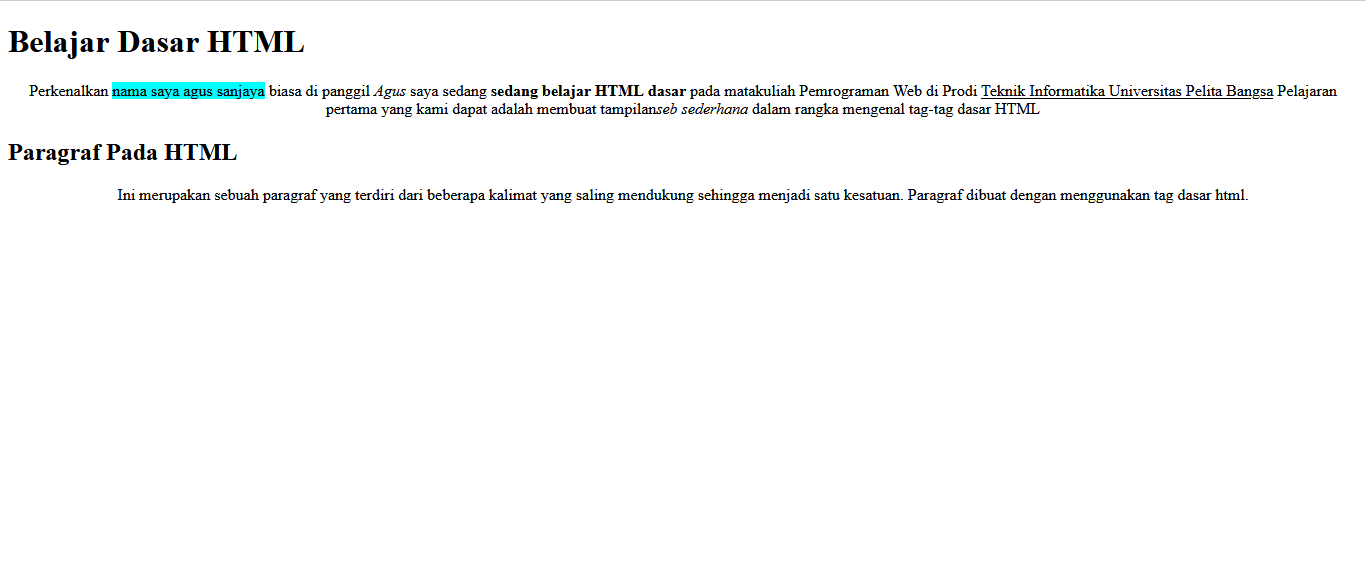
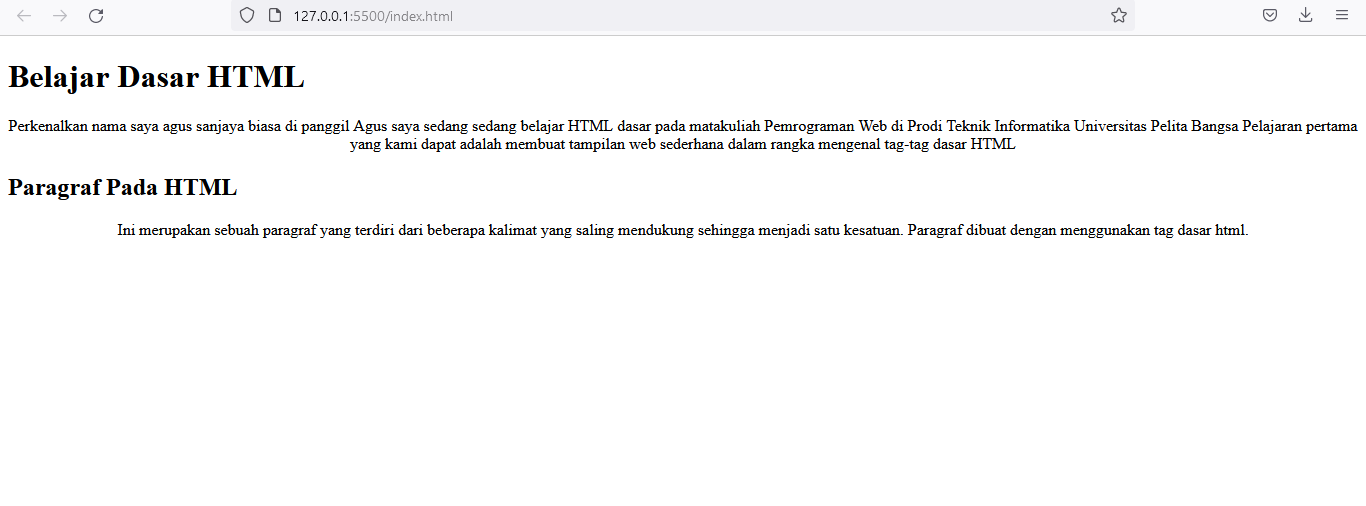
mengubah gambar

diff --git a/index.html b/index.html
@@ -10,18 +10,16 @@
   
 <!-- paragraf pertama -->
 <h1>Belajar Dasar HTML</h1>
-<p align="center">Perkenalkan <span style="background-color: aqua;" >nama saya agus sanjaya</span> biasa di panggil <i>Agus</i> saya sedang <b>sedang belajar HTML dasar</b> pada matakuliah Pemrograman Web di Prodi
-    <u>Teknik Informatika Universitas Pelita Bangsa</u>  Pelajaran pertama yang kami dapat
-    adalah membuat tampilan<i>seb sederhana</i> dalam rangka mengenal tag-tag dasar
+<p align="center">Perkenalkan nama saya agus sanjaya biasa di panggil Agus saya sedang sedang belajar HTML dasar pada matakuliah Pemrograman Web di Prodi
+    Teknik Informatika Universitas Pelita Bangsa Pelajaran pertama yang kami dapat
+    adalah membuat tampilan web sederhana dalam rangka mengenal tag-tag dasar
     HTML</p>
 <!-- paragraf kedua -->
 <h2>Paragraf Pada HTML</h2>
 <p align="center">Ini merupakan sebuah paragraf yang terdiri dari beberapa kalimat yang saling
     mendukung sehingga menjadi satu kesatuan. Paragraf dibuat dengan menggunakan
     tag dasar html.</p>
-    <!-- sub judul paragraf kedua-->
-    <h3>menambahkan gambar</h3>
-    <img src="Logo.png" width="200" title="Logo"
+   
 
      
 </body>
